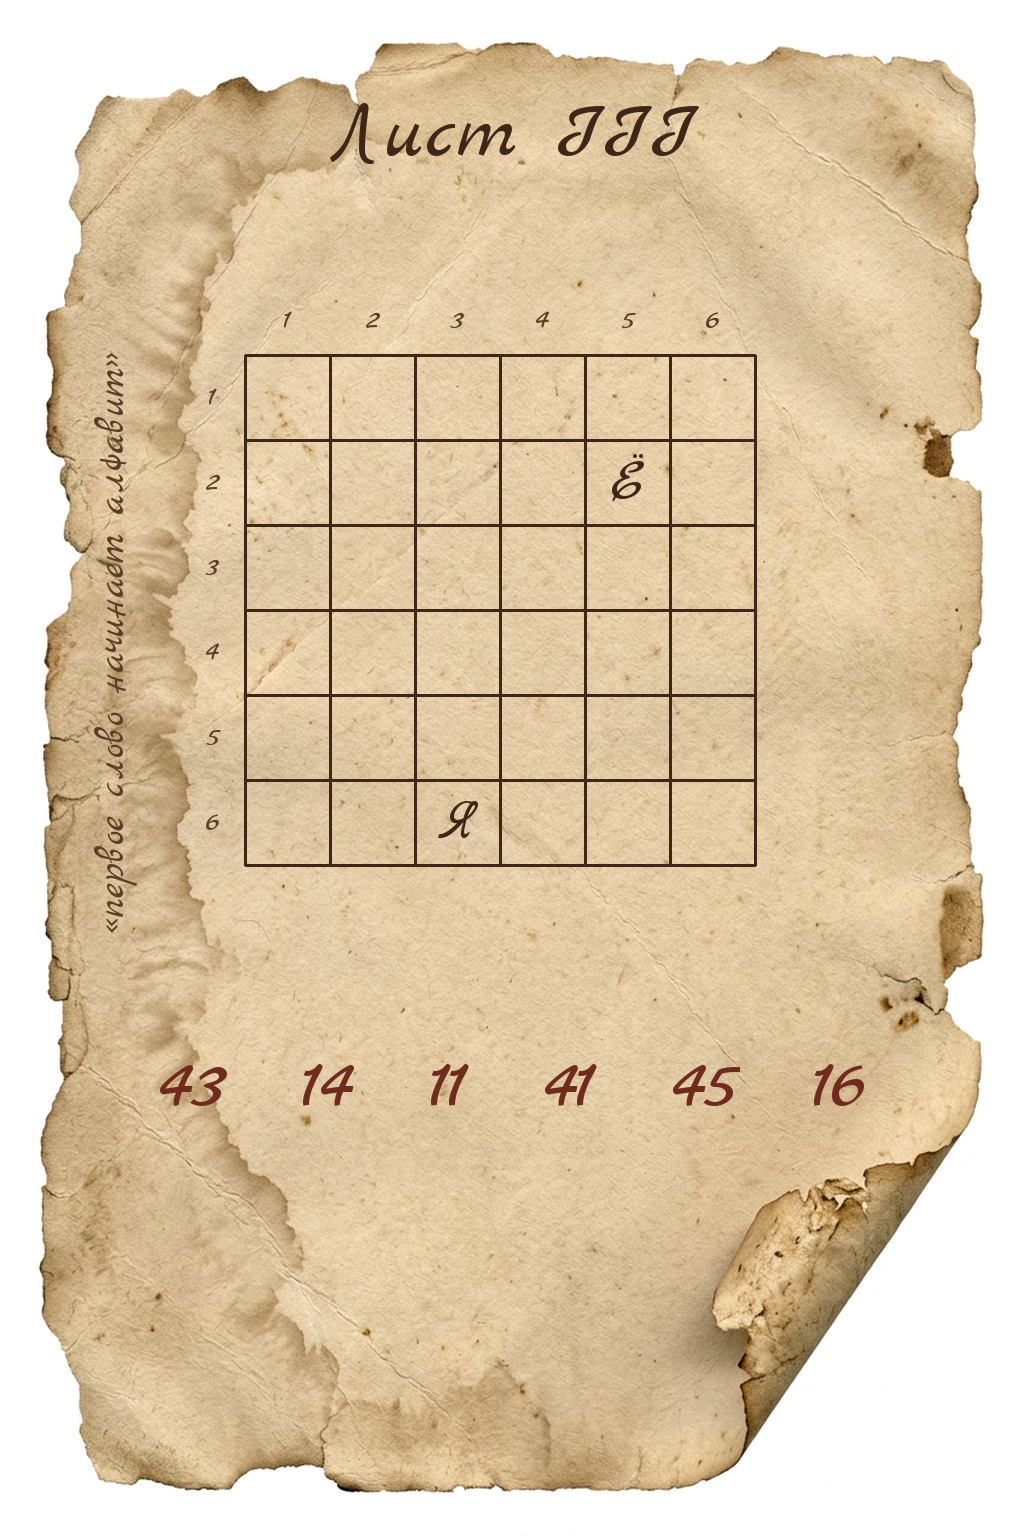
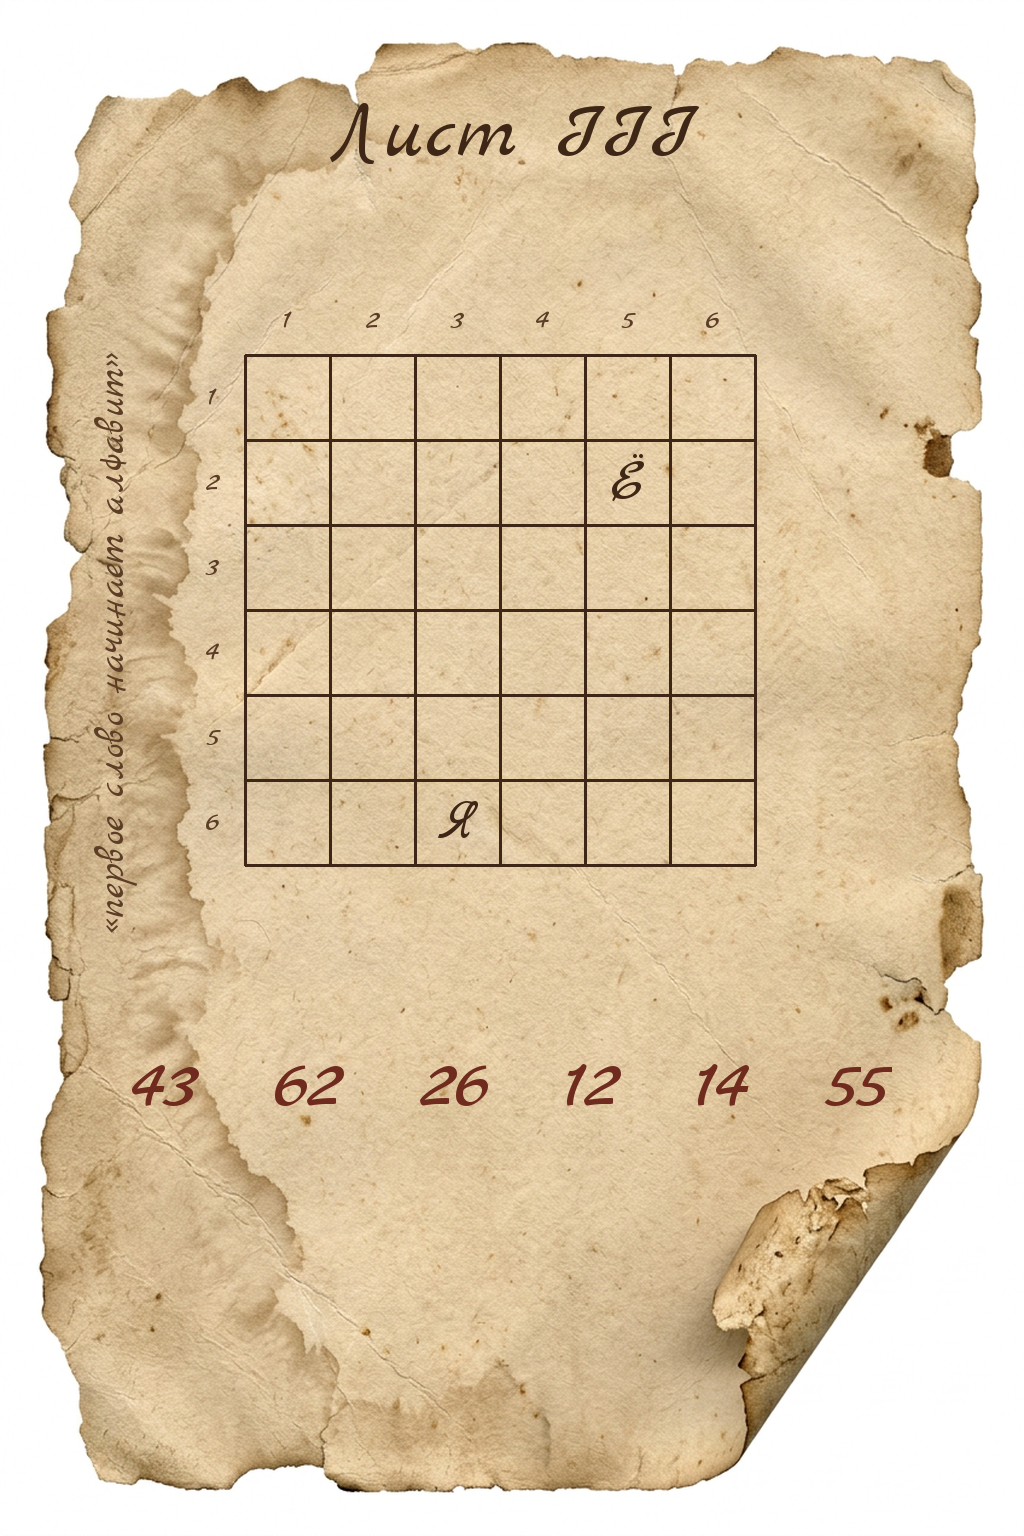
Spread N3 sheet-III/IV words off the 1-and-4 cells.
СЮЖЕТЫ / ПРАВДА give pairs 43 62 26 12 14 55 and remapped cells across the grid.

diff --git a/bot/tools/make_quest_assets.py b/bot/tools/make_quest_assets.py
@@ -657,29 +657,29 @@ def make_n3():
     assert rail_counts == [7, 14, 7]
     assert "".join(rail_rows) == rail_c
 
-    polybius_plain = "СТРОФА"
+    polybius_plain = "СЮЖЕТЫ"
     polybius_alphabet = "".join(dict.fromkeys(word1 + RU_WITH_YO))
     polybius_pairs = []
     for letter in polybius_plain:
         index = polybius_alphabet.index(letter)
         polybius_pairs.append(f"{index // 6 + 1}{index % 6 + 1}")
     assert len(polybius_alphabet) == 33
-    assert polybius_pairs == ["43", "14", "11", "41", "45", "16"]
-    # Финал: шапка — перемешанная СТРОФА. Сортировка даёт 356412.
-    # Первая цифра пар листа III меняется на место этой цифры в 356412.
+    assert polybius_pairs == ["43", "62", "26", "12", "14", "55"]
+    # Финал: шапка — перемешанная СЮЖЕТЫ. Сортировка даёт 361245.
+    # Первая цифра пар листа III меняется на место этой цифры в 361245.
     # На листе IV пара читается наоборот: сначала столбец, потом строка.
     keyword = polybius_plain
-    header_key = "ФАСОТР"
+    header_key = "ЖЕСТЫЮ"
     assert sorted(header_key) == sorted(keyword)
     assert header_key != keyword
     sort_order = [header_key.index(letter) + 1 for letter in keyword]
-    assert sort_order == [3, 5, 6, 4, 1, 2]
-    answer4 = "ИСТИНА"
+    assert sort_order == [3, 6, 1, 2, 4, 5]
+    answer4 = "ПРАВДА"
     picks = []
     for pair in polybius_pairs:
         column, row = int(pair[0]), int(pair[1])
         picks.append((row, sort_order.index(column) + 1))
-    assert picks == [(3, 4), (4, 5), (1, 5), (1, 4), (5, 4), (6, 5)]
+    assert picks == [(3, 5), (2, 2), (6, 4), (2, 3), (4, 3), (5, 6)]
     assert len(set(picks)) == len(picks) == len(answer4) == 6
     grid_letters = [[""] * 6 for _ in range(6)]
     for (row, column), letter in zip(picks, answer4):
@@ -818,7 +818,7 @@ def make_n3():
     centered_text(draw, "  ".join(polybius_pairs), 1035, script_font(82), accent)
     page3.save(OUT / "artifact_3c.png", optimize=True)
 
-    # Лист IV: шапка — перемешанная СТРОФА. Сортировка даёт координаты.
+    # Лист IV: шапка — перемешанная СЮЖЕТЫ. Сортировка даёт координаты.
     page4 = parchment_page(PARCHMENT_SOURCE_4)
     draw = ImageDraw.Draw(page4)
     centered_text(draw, "Лист IV", 70, script_font(82), ink)

diff --git a/bot/test_n3_cards.py b/bot/test_n3_cards.py
@@ -69,7 +69,7 @@ class N3CardStyleTests(unittest.TestCase):
         n3 = source.split("def make_n3():", 1)[1].split("# ===================================================================== N4", 1)[0]
         self.assertIn(f'rail_plain = "{plain}"', n3)
         self.assertIn("assert rail_counts == [7, 14, 7]", n3)
-        self.assertIn('polybius_pairs == ["43", "14", "11", "41", "45", "16"]', n3)
+        self.assertIn('polybius_pairs == ["43", "62", "26", "12", "14", "55"]', n3)
         self.assertIn('margin_text = "«первое слово начинает алфавит»"', n3)
         self.assertNotIn('margin_text = "на полях:', n3)
         self.assertIn("margin_layer.rotate(90", n3)
@@ -82,12 +82,12 @@ class N3CardStyleTests(unittest.TestCase):
     def test_final_sheet_uses_all_three_previous_answers(self):
         source = (REPO_ROOT / "bot" / "tools" / "make_quest_assets.py").read_text(encoding="utf-8")
         n3 = source.split("def make_n3():", 1)[1].split("# ===================================================================== N4", 1)[0]
-        self.assertIn('header_key = "ФАСОТР"', n3)
+        self.assertIn('header_key = "ЖЕСТЫЮ"', n3)
         self.assertIn("sorted(header_key) == sorted(keyword)", n3)
-        self.assertIn("sort_order == [3, 5, 6, 4, 1, 2]", n3)
-        self.assertIn('answer4 = "ИСТИНА"', n3)
+        self.assertIn("sort_order == [3, 6, 1, 2, 4, 5]", n3)
+        self.assertIn('answer4 = "ПРАВДА"', n3)
         self.assertIn("sort_order.index(column) + 1", n3)
-        self.assertIn('[(3, 4), (4, 5), (1, 5), (1, 4), (5, 4), (6, 5)]', n3)
+        self.assertIn('[(3, 5), (2, 2), (6, 4), (2, 3), (4, 3), (5, 6)]', n3)
         self.assertIn("верхний ряд сбился с порядка", n3)
         self.assertIn("третье слово знает, как его вернуть", n3)
         self.assertIn("язык первого листа ещё нужен", n3)

diff --git a/bot/docs/QUEST_WALKTHROUGH.md b/bot/docs/QUEST_WALKTHROUGH.md
@@ -137,7 +137,7 @@ LSB и цветовые каналы **нет** (это уже вход из SIG
 `СЛЕДУЮЩИЙ ШИФР НОСИТ ИМЯ ПОЛИБИЯ`.
 В бота: **ПОЛИБИЙ**
 
-### Ответ 3 → `СТРОФА`
+### Ответ 3 → `СЮЖЕТЫ`
 
 Лист III. Квадрат Полибия 6×6, алфавит из 33 русских букв с Ё. Пометка о первом
 слове повёрнута вертикально вдоль левого поля; в таблице уже стоят контрольные
@@ -153,33 +153,33 @@ LSB и цветовые каналы **нет** (это уже вход из SIG
 Э Ю Я
 ```
 
-Пары `43 14 11 41 45 16` читаются как строка, затем столбец и дают **СТРОФА**.
-В бота: **СТРОФА**
+Пары `43 62 26 12 14 55` читаются как строка, затем столбец и дают **СЮЖЕТЫ**.
+В бота: **СЮЖЕТЫ**
 
-### Ответ 4 → `ИСТИНА`
+### Ответ 4 → `ПРАВДА`
 
 Лист IV — квадрат 6×6 из знаков **нового языка** (pigpen листа I).
-Столбцы сверху подписаны перемешанными буквами **СТРОФА**:
-`Ф А С О Т Р`. Строки слева и номера столбцов — `1…6`.
+Столбцы сверху подписаны перемешанными буквами **СЮЖЕТЫ**:
+`Ж Е С Т Ы Ю`. Строки слева и номера столбцов — `1…6`.
 
 1. **язык листа I** — шапка и клетки читаются тем же pigpen, что лист I.
-2. **СТРОФА** — верни шапку в порядок третьего слова. Столбцы встанут как
-   `3 5 6 4 1 2`.
-3. **пары листа III** `43 14 11 41 45 16` остаются, но первая цифра пары
-   меняется на *место* этой цифры в `356412`. На листе IV пара читается
-   наоборот: сначала столбец, потом строка. `14` → `54` — столбец 5,
-   строка 4.
+2. **СЮЖЕТЫ** — верни шапку в порядок третьего слова. Столбцы встанут как
+   `3 6 1 2 4 5`.
+3. **пары листа III** `43 62 26 12 14 55` остаются, но первая цифра пары
+   меняется на *место* этой цифры в `361245`. На листе IV пара читается
+   наоборот: сначала столбец, потом строка. `43` → `53` — столбец 5,
+   строка 3.
 
-| старая | место 1-й цифры в `356412` | новая | чтение | буква |
+| старая | место 1-й цифры в `361245` | новая | чтение | буква |
 | ------ | -------------------------- | ----- | ------ | ----- |
-| `43` | 4 на 4-м месте | `43` | столбец 4, строка 3 | И |
-| `14` | 1 на 5-м месте | `54` | столбец 5, строка 4 | С |
-| `11` | 1 на 5-м месте | `51` | столбец 5, строка 1 | Т |
-| `41` | 4 на 4-м месте | `41` | столбец 4, строка 1 | И |
-| `45` | 4 на 4-м месте | `45` | столбец 4, строка 5 | Н |
-| `16` | 1 на 5-м месте | `56` | столбец 5, строка 6 | А |
+| `43` | 4 на 5-м месте | `53` | столбец 5, строка 3 | П |
+| `62` | 6 на 2-м месте | `22` | столбец 2, строка 2 | Р |
+| `26` | 2 на 4-м месте | `46` | столбец 4, строка 6 | А |
+| `12` | 1 на 3-м месте | `32` | столбец 3, строка 2 | В |
+| `14` | 1 на 3-м месте | `34` | столбец 3, строка 4 | Д |
+| `55` | 5 на 6-м месте | `65` | столбец 6, строка 5 | А |
 
-Получается **ИСТИНА**. В бота: **ИСТИНА**.
+Получается **ПРАВДА**. В бота: **ПРАВДА**.
 
 Фрагмент: **НАЧАЛО**.
 
@@ -317,7 +317,7 @@ LSB и цветовые каналы **нет** (это уже вход из SIG
 | --- | --- |
 | N1 | СМОТРИ ВНУТРЬ → FFD9 → СЛОИ |
 | N2 | КЛЮЧ → ФИБО → ЛЬДА → СИГНАЛ |
-| N3 | РЕШЕТКА → ПОЛИБИЙ → СТРОФА → ИСТИНА |
+| N3 | РЕШЕТКА → ПОЛИБИЙ → СЮЖЕТЫ → ПРАВДА |
 | N4 | ЛИНЗА → ТЕНЬ → КАДР |
 | N5 | АКТ-205 |
 | N6 | ЯНЮЯЗ → АТБАШ → ВИЖНЕР → ПОРТАЛ |
